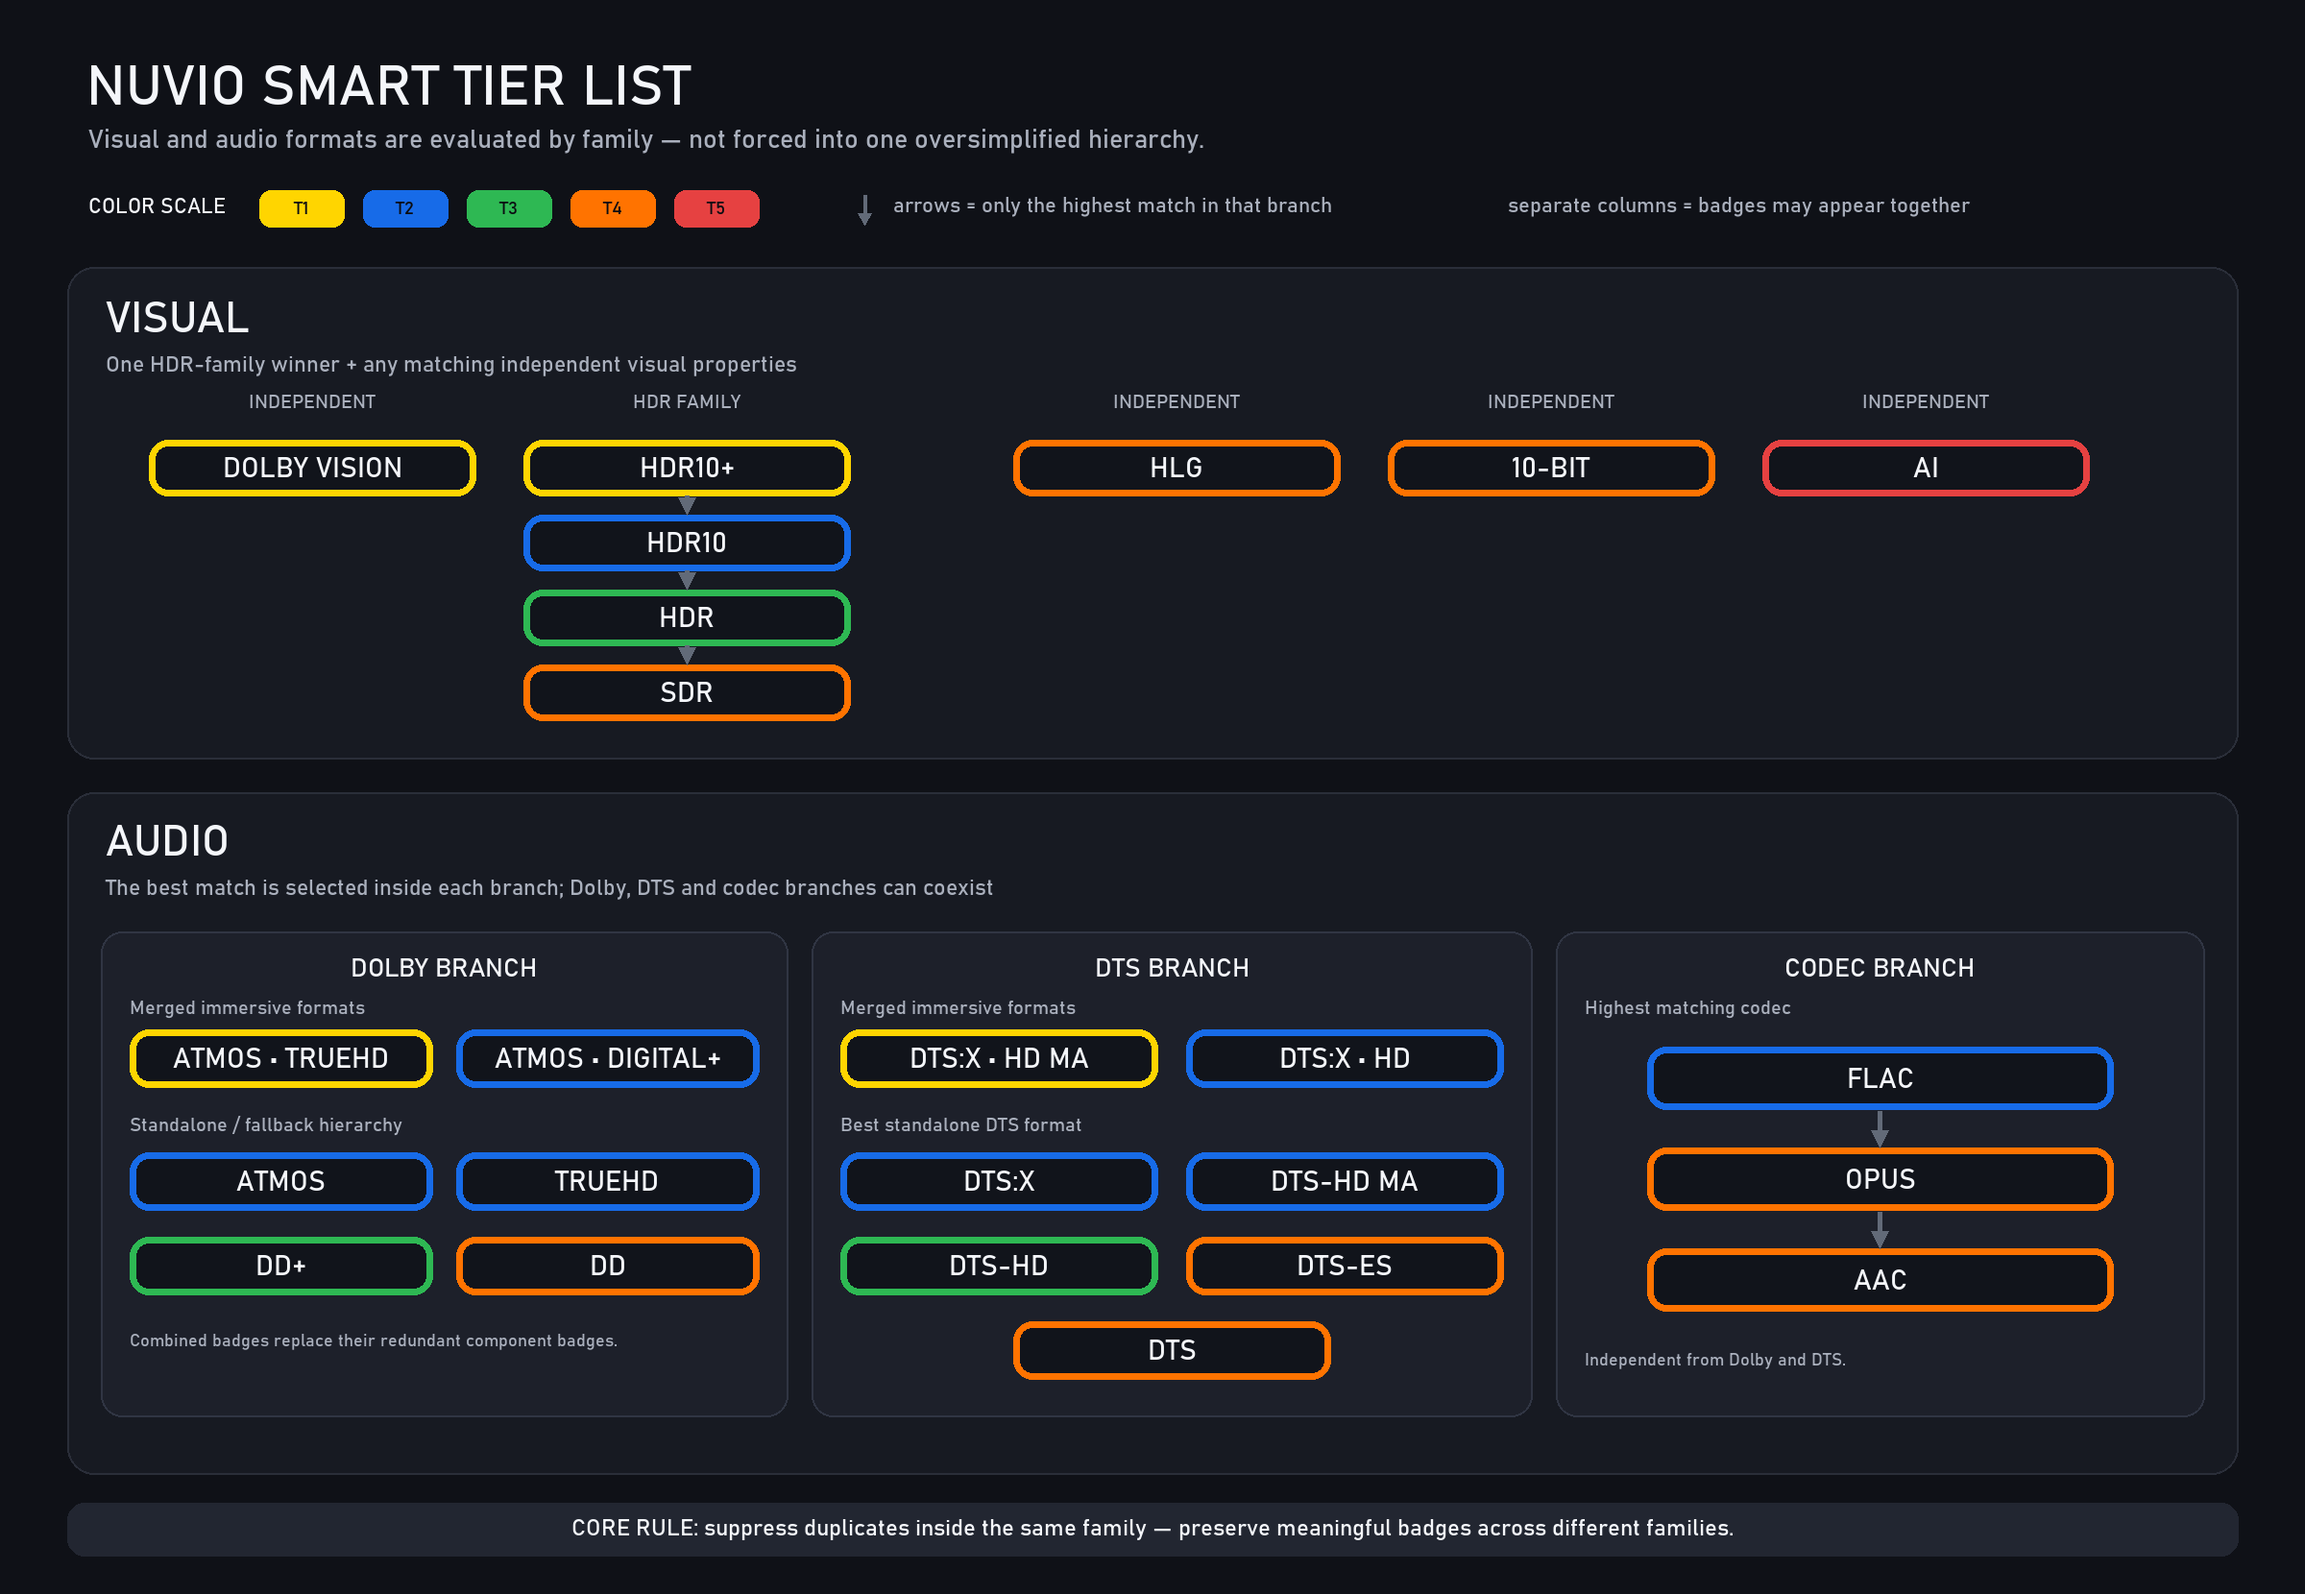
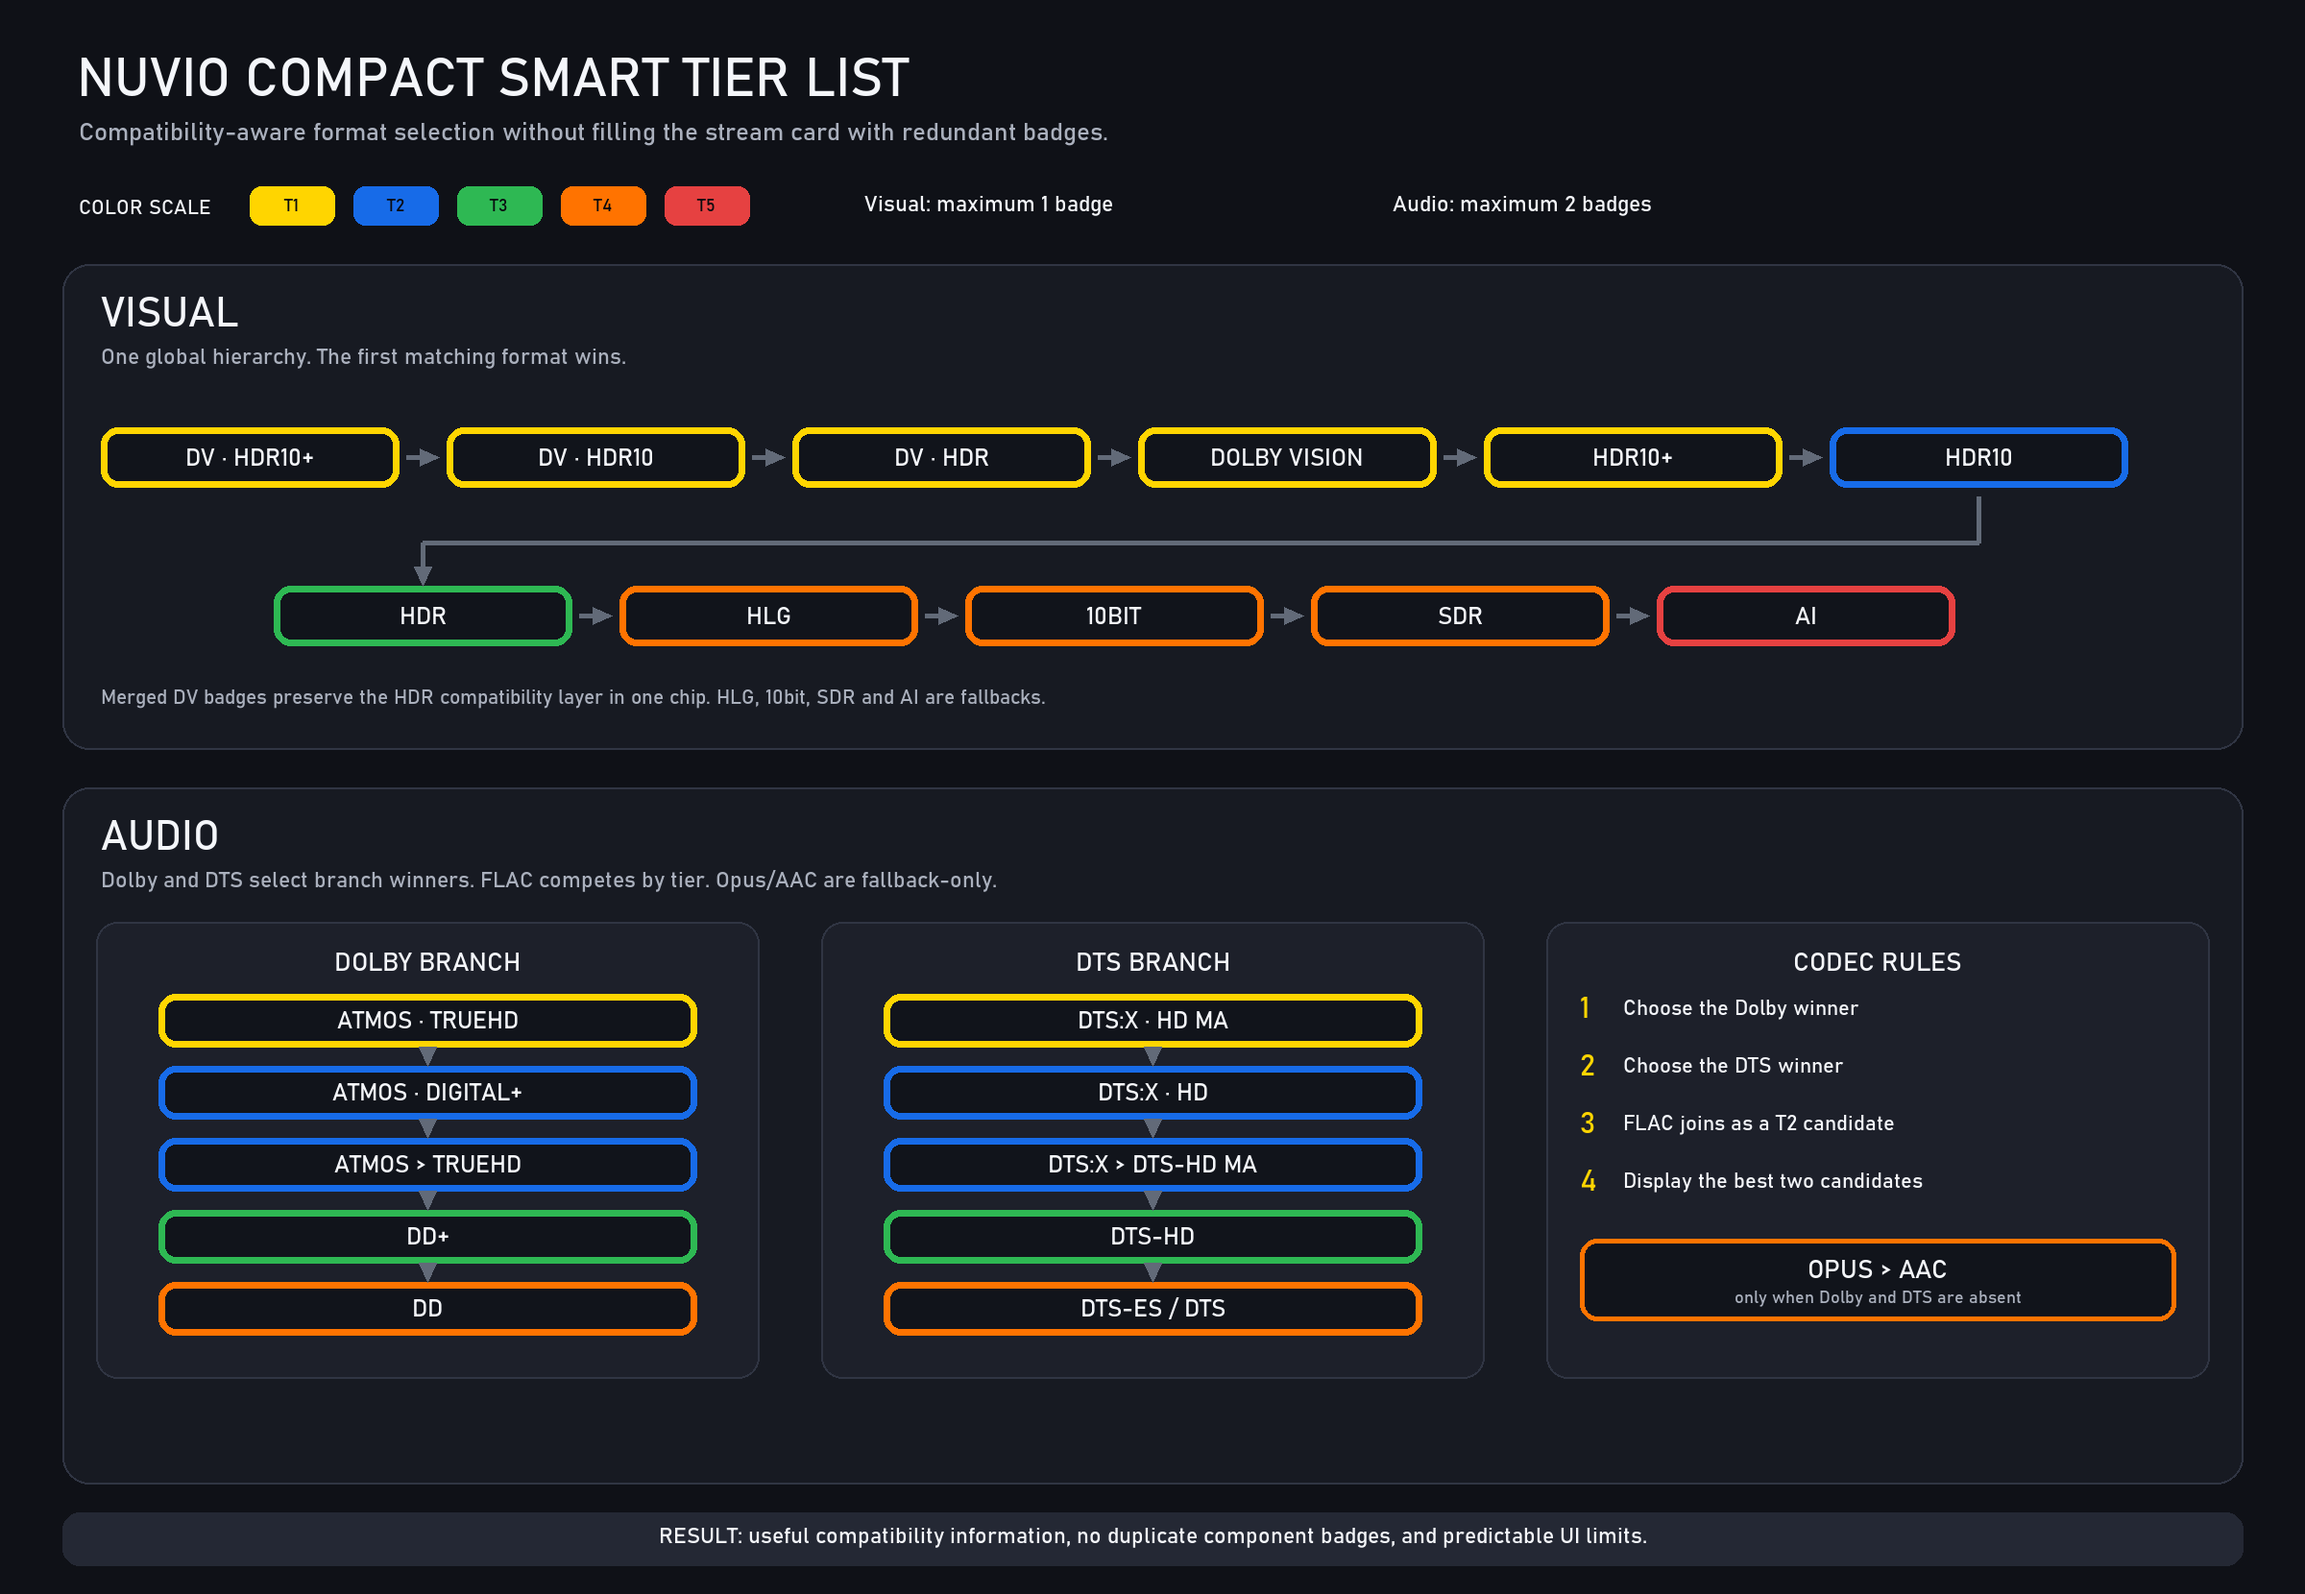
Add compact visual and audio tier logic

diff --git a/README.md b/README.md
@@ -1,24 +1,17 @@
 # Kingsize Badges
 
-A high-resolution stream badge package for Nuvio, designed to remain clear
-across mobile, desktop, and TV layouts.
+A stream badge package for Nuvio with **89 badges**, compact Visual/Audio
+selection logic, color-tier ordering, and locally hosted PNG assets.
 
-The package contains **86 badges** covering source, resolution, quality,
-visual formats, audio formats, channels, codecs, streaming services, and
-special release tags.
-
-![Nuvio Smart Tier List](docs/nuvio-smart-tier-list.png)
+![Nuvio Compact Smart Tier List](docs/nuvio-smart-tier-list.png)
 
 ## Install
 
-Use the raw JSON URL:
+Use this raw JSON URL in Nuvio:
 
 ```text
 https://raw.githubusercontent.com/kingsizew/badges/main/badge.json
 ```
-
-You can also download [`badge.json`](badge.json) directly from this
-repository.
 
 ## Color scale
 
@@ -30,76 +23,91 @@ repository.
 | T4 | Orange | `#FF7300` |
 | T5 | Red | `#E64141` |
 
-Filters inside the Visual and Audio groups are ordered by tier so displayed
-badges appear as gold, blue, green, orange, and red blocks rather than mixed
-colors.
+Visual and Audio filters are ordered as Gold → Blue → Green → Orange → Red.
 
-## Smart Visual hierarchy
+## Compact Visual hierarchy
 
-The Visual group is not a single linear hierarchy.
-
-### HDR family
+Visual uses one global hierarchy and displays **a maximum of one badge**:
 
 ```text
-HDR10+ > HDR10 > HDR > SDR
+DV · HDR10+
+> DV · HDR10
+> DV · HDR
+> Dolby Vision
+> HDR10+
+> HDR10
+> HDR
+> HLG
+> 10bit
+> SDR
+> AI
 ```
 
-Only the highest matching badge in this family is displayed.
+The merged badges preserve useful compatibility information without adding a
+second Visual chip:
 
-### Independent Visual properties
+- Dolby Vision + HDR10+ becomes **DV · HDR10+**
+- Dolby Vision + HDR10 becomes **DV · HDR10**
+- Dolby Vision + generic HDR becomes **DV · HDR**
 
-- Dolby Vision
-- HLG
-- 10bit
-- AI
+HLG, 10bit, SDR, and AI are fallback formats. They appear only when no
+higher Visual format from the hierarchy is detected.
 
-These represent separate properties and may appear together with the selected
-HDR-family badge.
+## Compact Audio selection
 
-## Smart Audio hierarchy
-
-Audio uses independent branches. The highest matching badge in each branch is
-displayed, while badges from different branches may appear together.
+Audio displays **a maximum of two badges**.
 
 ### Dolby branch
 
 ```text
-Atmos TrueHD
-Atmos Digital+
-Atmos
-TrueHD
-DD+
-DD
+Atmos · TrueHD
+> Atmos · Digital+
+> Atmos
+> TrueHD
+> DD+
+> DD
 ```
-
-- `Atmos + TrueHD` becomes the combined **Atmos TrueHD** badge.
-- `Atmos + DD+` becomes the combined **Atmos Digital+** badge.
-- Standalone Atmos remains available when the carrier codec is not named.
 
 ### DTS branch
 
 ```text
-DTS:X HD MA
-DTS:X HD
-DTS:X
-DTS-HD MA
-DTS-HD
-DTS-ES
-DTS
+DTS:X · HD MA
+> DTS:X · HD
+> DTS:X
+> DTS-HD MA
+> DTS-HD
+> DTS-ES
+> DTS
 ```
 
-- `DTS:X + DTS-HD MA` becomes **DTS:X HD MA**.
-- `DTS:X + DTS-HD` becomes **DTS:X HD**.
-- Standalone DTS:X remains available when the carrier format is not named.
+Each branch first selects its own best match.
 
-### Independent codec branch
+### Codec behavior
 
 ```text
 FLAC > Opus > AAC
 ```
 
-This branch is independent from Dolby and DTS, allowing meaningful
-multi-track information to remain visible.
+- **FLAC** is a T2 lossless candidate and competes with the Dolby and DTS
+  winners for one of the two visible Audio positions.
+- **Opus** and **AAC** are fallback codecs. They appear only when neither a
+  Dolby nor a DTS format is detected.
+- When Dolby, DTS, and FLAC all match, the two highest-tier candidates are
+  displayed.
+- Equal-tier Dolby/DTS formats take priority over FLAC because they provide
+  more specific device and home-theater compatibility information.
+
+Examples:
+
+| Detected | Displayed |
+|---|---|
+| Atmos TrueHD + DTS:X HD MA + FLAC | Atmos · TrueHD + DTS:X · HD MA |
+| Atmos TrueHD + DTS-HD + FLAC | Atmos · TrueHD + FLAC |
+| DD+ + DTS-HD + FLAC | DTS-HD + FLAC |
+| DD+ + DTS-ES + FLAC | DD+ + FLAC |
+| DTS + Opus | DTS |
+| Opus + AAC | Opus |
+| FLAC + Opus + AAC | FLAC |
 
 ## Repository structure
 
@@ -117,6 +125,8 @@ badge-images/
 ├── encoder/
 ├── streaming/
 └── manifest.json
+docs/
+└── nuvio-smart-tier-list.png
 ```
 
 | Category | Badges |
@@ -126,36 +136,36 @@ badge-images/
 | Resolution | 9 |
 | Quality | 12 |
 | IMAX | 2 |
-| Visual | 8 |
+| Visual | 11 |
 | Audio | 16 |
 | Channels | 4 |
 | Encoder | 5 |
 | Streaming | 9 |
-| **Total** | **86** |
+| **Total** | **89** |
 
 ## Image standard
 
-Every image in [`badge-images`](badge-images) is the original PNG used by the
-ordered badge configuration. No resizing, cropping, padding, redrawing, or
-other visual transformation is applied, except for the standard IMAX badge,
-which has 16 px of transparent left padding to prevent its first `I` from
-touching the image edge.
+The package preserves the original PNG artwork. The only intentional
+exceptions are:
+
+- the three custom merged Dolby Vision/HDR badges;
+- the standard IMAX badge, which has 16 px of transparent left padding so its
+  first `I` does not touch the image edge.
 
 ## Direct image URLs
 
-Badge image URLs use GitHub raw links:
+Badge image URLs use GitHub Raw:
 
 ```text
-https://raw.githubusercontent.com/kingsizew/badges/main/badge-images/<category>/<badge-id>-original.png
+https://raw.githubusercontent.com/kingsizew/badges/main/badge-images/<category>/<filename>.png
 ```
 
-The full ID-to-file mapping is available in
+The complete mapping is available in
 [`badge-images/manifest.json`](badge-images/manifest.json).
 
 ## Notes
 
-- Badge matching is filename/metadata based.
-- Multiple independent Visual or Audio properties can appear simultaneously.
-- Combined immersive-audio badges suppress their redundant component badges.
-- Product and service names, logos, and trademarks belong to their respective
-  owners.
+- Matching evaluates the filename and supplied stream metadata.
+- Combined badges suppress their redundant component badges.
+- Product names, service names, logos, and trademarks belong to their
+  respective owners.
